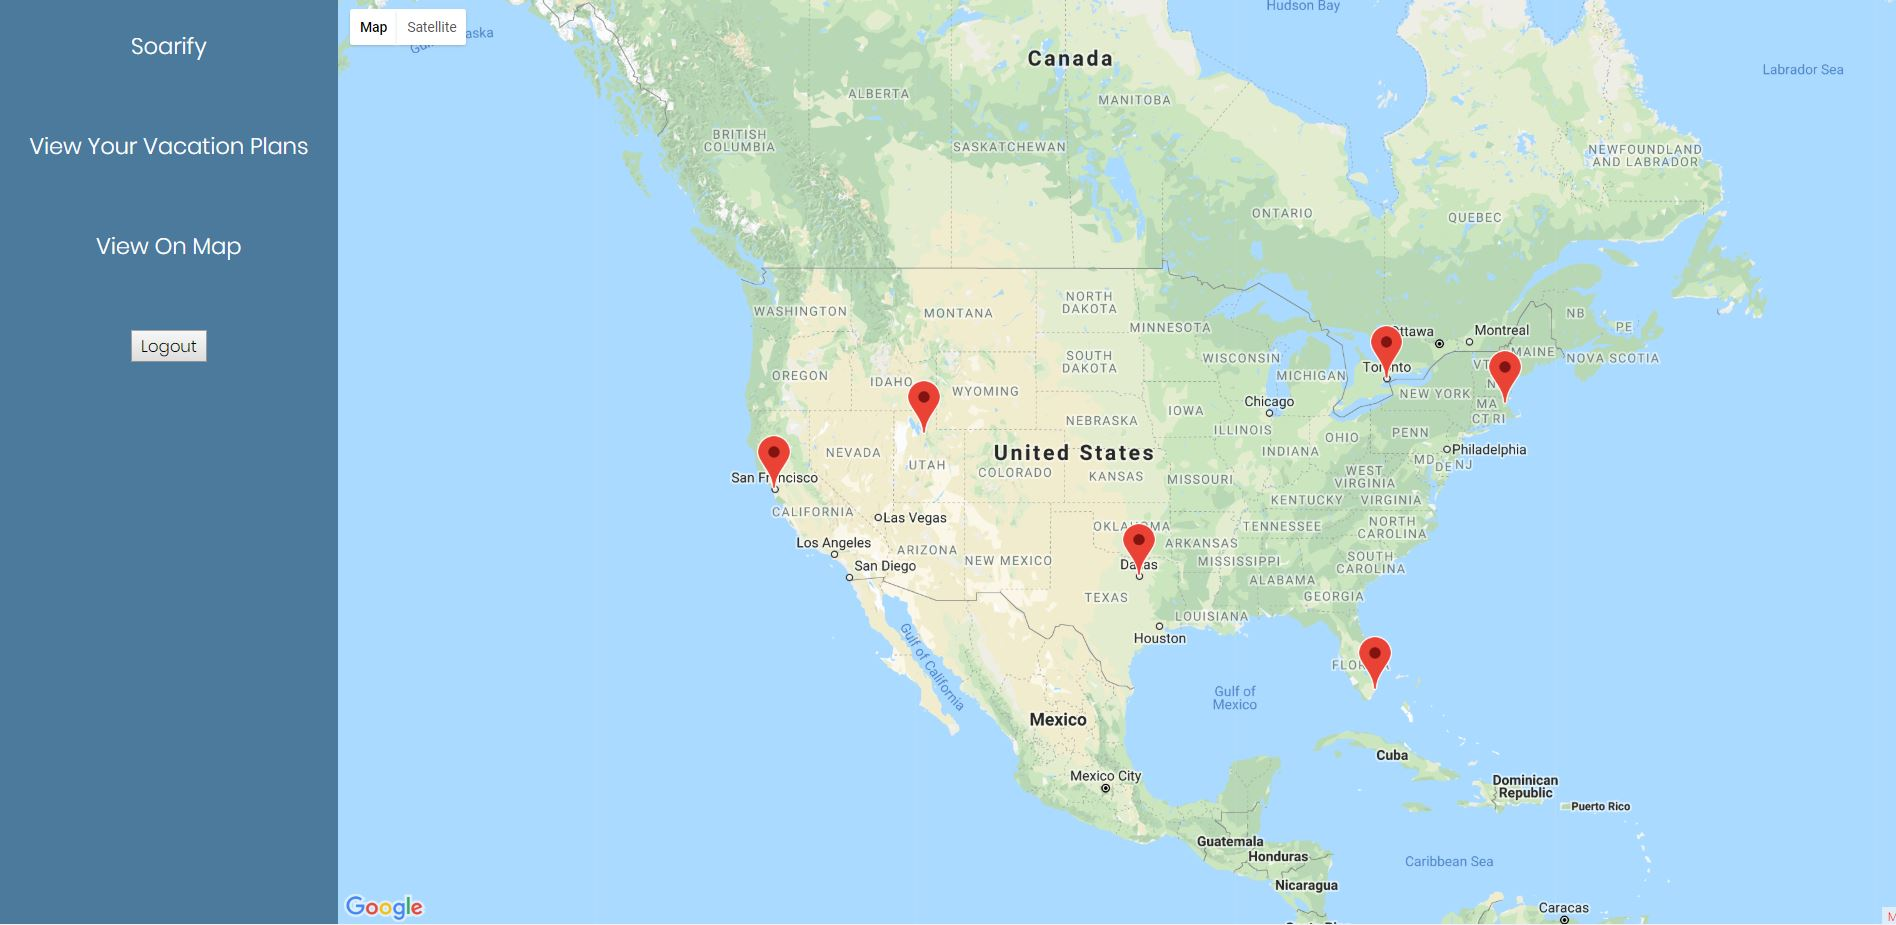
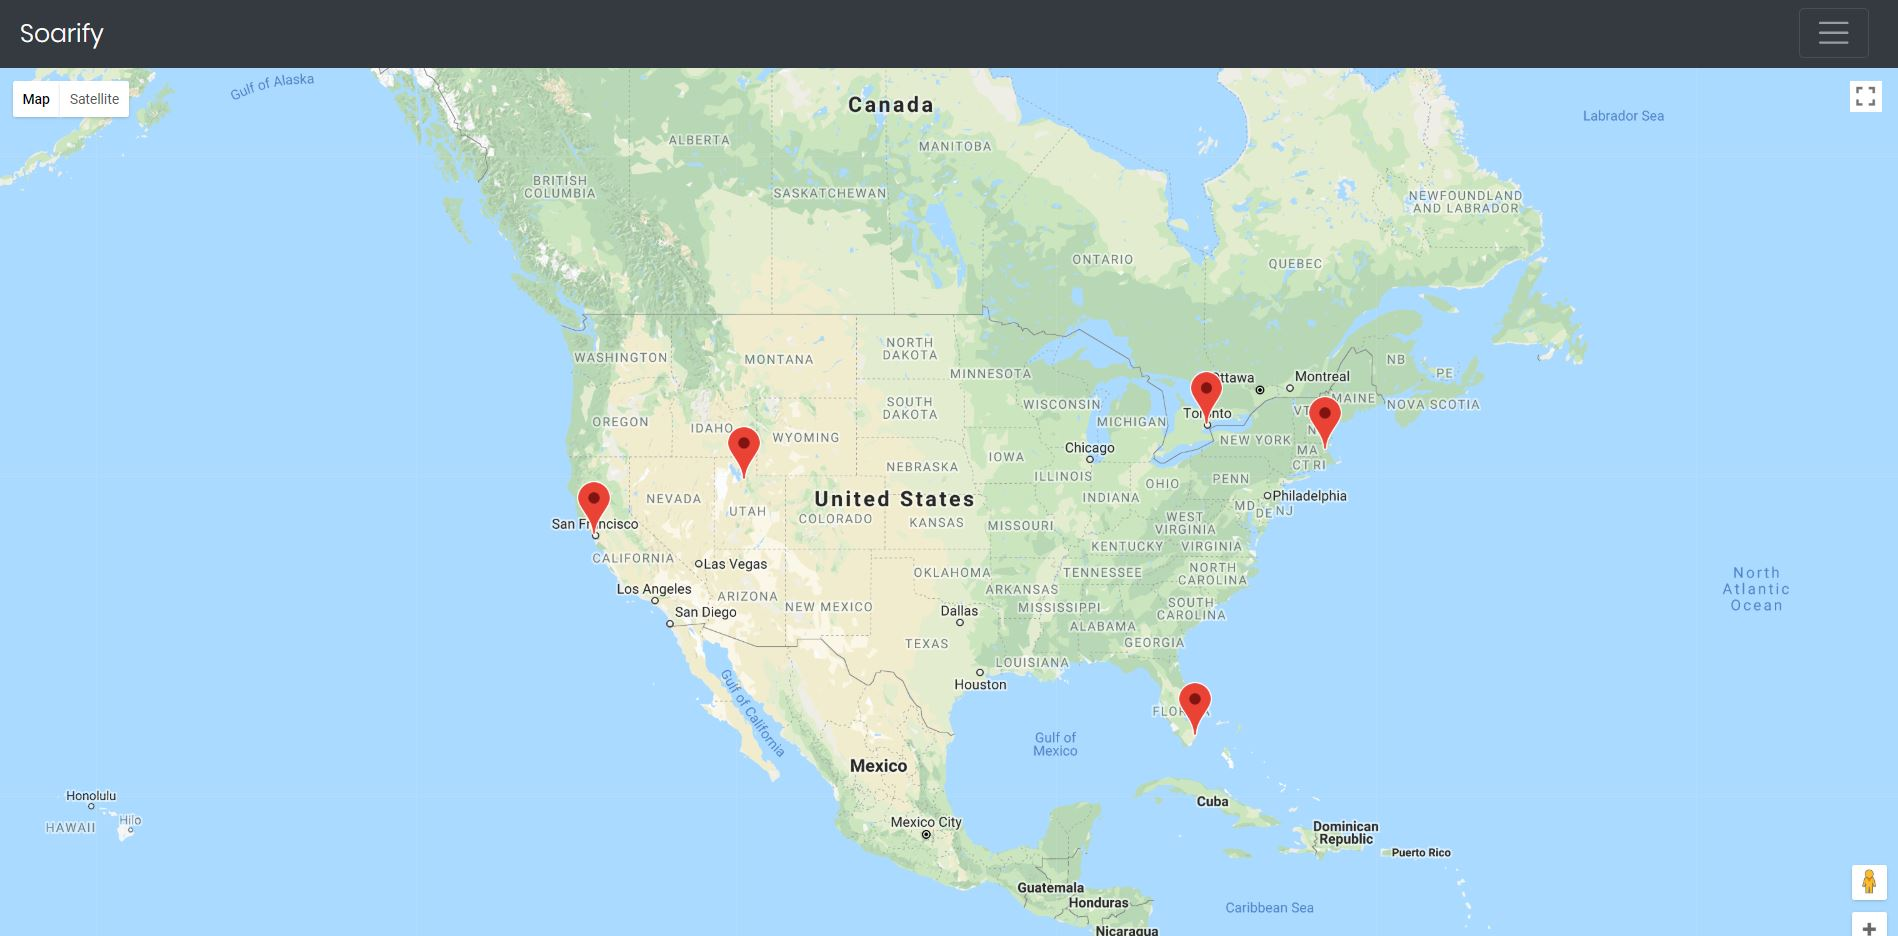
replaced soarify screenshot with updated design and added Sass and reactstrap to soarify built with

diff --git a/index.html b/index.html
@@ -17,7 +17,7 @@
     <li><a href="#projects" class="waves-effect"><i class="material-icons small white-text">web</i>Projects</a></li>
     <li><a href="#skillsScroll" class="waves-effect"><i class="material-icons small white-text">stars</i>Skills</a></li>
     <li><a class="waves-effect" href="#contact"><i class="material-icons small white-text">contact_mail</i>Contact</a></li>
-    <li><a href="https://docs.google.com/document/d/1et6irbEsMr3KeQk02iYL_tXDoA_Bo9muQl0iABQLtMY/edit?usp=sharing" target="_blank" class="waves-effect"><i class="material-icons small white-text">assignment_ind</i>Resume</a></li>
+    <li><a href="https://docs.google.com/document/d/1et6irbEsMr3KeQk02iYL_tXDoA_Bo9muQl0iABQLtMY/edit?usp=sharing" target="_blank" rel="noopener noreferrer" class="waves-effect"><i class="material-icons small white-text">assignment_ind</i>Resume</a></li>
   </ul>
   <a href="#" data-target="slide-out" class="sidenav-trigger"><i class="material-icons small nav">menu</i></a>
   <div id="container">
@@ -32,14 +32,14 @@
           <div class="col s12 m6 l4">
             <div class="card">
               <div class="card-image">
-                <a href="https://soarify.herokuapp.com/" target="_blank"><img src="/assets/images/soarify.JPG"></a>
+                <a href="https://soarify.herokuapp.com/" target="_blank" rel="noopener noreferrer"><img src="/assets/images/soarify.JPG"></a>
               </div>
               <div class="card-content">
                 <span class="card-title">Soarify<i class="material-icons activator right hello">more_vert</i></span>
                 <p>Web app to keep track of locations you would like to visit</p>
               </div>
               <div class="card-action">
-                <a href="https://soarify.herokuapp.com/" target="_blank">Check it out!</a>
+                <a href="https://soarify.herokuapp.com/" target="_blank" rel="noopener noreferrer">Check it out!</a>
               </div>
               <div class="card-reveal">
                 <p class="card-title">Built With:<i class="material-icons right">close</i></p>
@@ -49,8 +49,9 @@
                   <li>ReactJS</li>
                   <li>Redux</li>
                   <li>Node.js</li>
-                  <li>CSS3</li>
+                  <li>Sass</li>
                   <li>Google Maps API</li>
+                  <li>Reactstrap</li>
                 </ul>
               </div>
             </div>
@@ -59,14 +60,14 @@
           <div class="col s12 m6 l4">
             <div class="card">
               <div class="card-image">
-                <a href="https://filmselect.surge.sh/" target="_blank"><img src="/assets/images/film-select.JPG"></a>
+                <a href="https://filmselect.surge.sh/" target="_blank" rel="noopener noreferrer"><img src="/assets/images/film-select.JPG"></a>
               </div>
               <div class="card-content">
                 <span class="card-title">Film Select<i class="material-icons activator right hello">more_vert</i></span>
                 <p>Web app to view information on films based on genre, now playing, and most popular.</p>
               </div>
               <div class="card-action">
-                <a href="https://filmselect.surge.sh/" target="_blank">Check it out!</a>
+                <a href="https://filmselect.surge.sh/" target="_blank" rel="noopener noreferrer">Check it out!</a>
               </div>
               <div class="card-reveal">
                 <p class="card-title">Built With:<i class="material-icons right">close</i></p>
@@ -83,14 +84,14 @@
           <div class="col s12 m6 l4">
             <div class="card">
               <div class="card-image">
-                <a href="https://rgbcolorguesser.surge.sh/" target="_blank"><img src="/assets/images/rgb-color-guess.JPG"></a>
+                <a href="https://rgbcolorguesser.surge.sh/" target="_blank" rel="noopener noreferrer"><img src="/assets/images/rgb-color-guess.JPG"></a>
               </div>
               <div class="card-content">
                 <span class="card-title">RGB Color Guesser<i class="material-icons activator right hello">more_vert</i></span>
                 <p>Guess as many correct RGB colored squares in 30 seconds!</p>
               </div>
               <div class="card-action">
-                <a href="https://rgbcolorguesser.surge.sh/" target="_blank">Check it out!</a>
+                <a href="https://rgbcolorguesser.surge.sh/" target="_blank" rel="noopener noreferrer">Check it out!</a>
               </div>
               <div class="card-reveal">
                 <p class="card-title">Built With:<i class="material-icons right">close</i></p>
@@ -107,14 +108,14 @@
           <div class="col s12 m6 l4">
             <div class="card">
               <div class="card-image">
-                <a href="https://mylocalweather.surge.sh/" target="_blank"><img src="/assets/images/my-local-weather.JPG"></a>
+                <a href="https://mylocalweather.surge.sh/" target="_blank" rel="noopener noreferrer"><img src="/assets/images/my-local-weather.JPG"></a>
               </div>
               <div class="card-content">
                 <span class="card-title">My Local Weather<i class="material-icons activator right hello">more_vert</i></span>
                 <p>Web app that grabs your current location and returns the current and weekly weather.</p>
               </div>
               <div class="card-action">
-                <a href="https://mylocalweather.surge.sh/" target="_blank">Check it out!</a>
+                <a href="https://mylocalweather.surge.sh/" target="_blank" rel="noopener noreferrer">Check it out!</a>
               </div>
               <div class="card-reveal">
                 <p class="card-title">Built With:<i class="material-icons right">close</i></p>
@@ -131,20 +132,20 @@
           <div class="col s12 m6 l4">
               <div class="card">
                 <div class="card-image">
-                  <a href="https://christianlopez.surge.sh/" target="_blank"><img src="/assets/images/portfolio.JPG"></a>
+                  <a href="https://christianlopez.surge.sh/" target="_blank" rel="noopener noreferrer"><img src="/assets/images/portfolio.JPG"></a>
                 </div>
                 <div class="card-content">
                   <span class="card-title">Portfolio<i class="material-icons activator right hello">more_vert</i></span>
                   <p>Portfolio website to showcase my projects and skillset</p>
                 </div>
                 <div class="card-action">
-                  <a href="https://christianlopez.surge.sh/" target="_blank">Check it out!</a>
+                  <a href="https://christianlopez.surge.sh/" target="_blank" rel="noopener noreferrer">Check it out!</a>
                 </div>
                 <div class="card-reveal">
                   <p class="card-title">Built With:<i class="material-icons right">close</i></p>
                   <ul>
-                    <li>HTML</li>
-                    <li>CSS</li>
+                    <li>HTML5</li>
+                    <li>CSS3</li>
                     <li>Materialize</li>
                     <li>jQuery</li>
                   </ul>
@@ -233,19 +234,19 @@
         <div class="card-content">
           <div class="row">
             <div class="col s6 m3 techName">
-              <a class="btn-floating btn-large waves-effect waves-light red" href="https://www.linkedin.com/in/lopezchris616/" target="_blank"><i class="fab fa-linkedin-in"></i></a>
+              <a class="btn-floating btn-large waves-effect waves-light red" href="https://www.linkedin.com/in/lopezchris616/" target="_blank" rel="noopener noreferrer"><i class="fab fa-linkedin-in"></i></a>
               <p>LinkedIn</p>
             </div>
             <div class="col s6 m3 techName">
-              <a class="btn-floating btn-large waves-effect waves-light red" href="mailto:christian.lopez023@mymdc.net" target="_blank"><i class="material-icons">email</i></a>
+              <a class="btn-floating btn-large waves-effect waves-light red" href="mailto:christian.lopez023@mymdc.net" target="_blank" rel="noopener noreferrer"><i class="material-icons">email</i></a>
               <p>Email</p>
             </div>
             <div class="col s6 m3 techName">
-                <a class="btn-floating btn-large waves-effect waves-light red" href="https://github.com/LopezChris616" target="_blank"><i class="fab fa-github"></i></a>
+                <a class="btn-floating btn-large waves-effect waves-light red" href="https://github.com/LopezChris616" target="_blank" rel="noopener noreferrer"><i class="fab fa-github"></i></a>
                 <p>GitHub</p>
             </div>
             <div class="col s6 m3 techName">
-                <a class="btn-floating btn-large waves-effect waves-light red" href="https://docs.google.com/document/d/1et6irbEsMr3KeQk02iYL_tXDoA_Bo9muQl0iABQLtMY/edit?usp=sharing" target="_blank"><i class="material-icons small white-text">assignment_ind</i></a>
+                <a class="btn-floating btn-large waves-effect waves-light red" href="https://docs.google.com/document/d/1et6irbEsMr3KeQk02iYL_tXDoA_Bo9muQl0iABQLtMY/edit?usp=sharing" target="_blank" rel="noopener noreferrer"><i class="material-icons small white-text">assignment_ind</i></a>
                 <p>Resume</p>
             </div>
           </div> 
